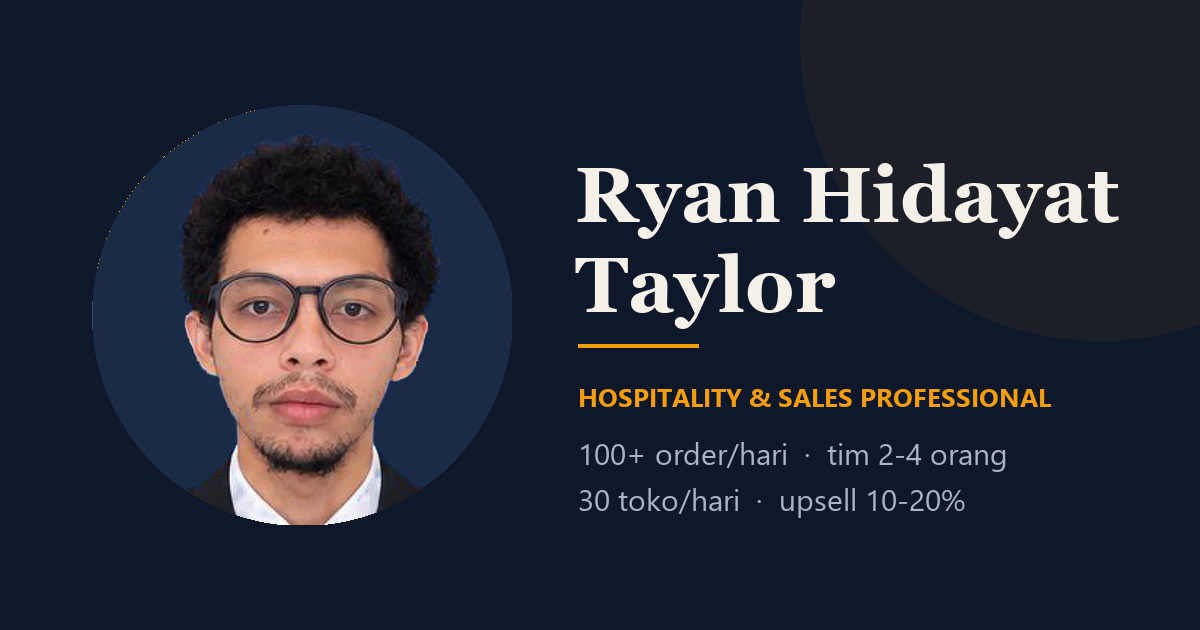
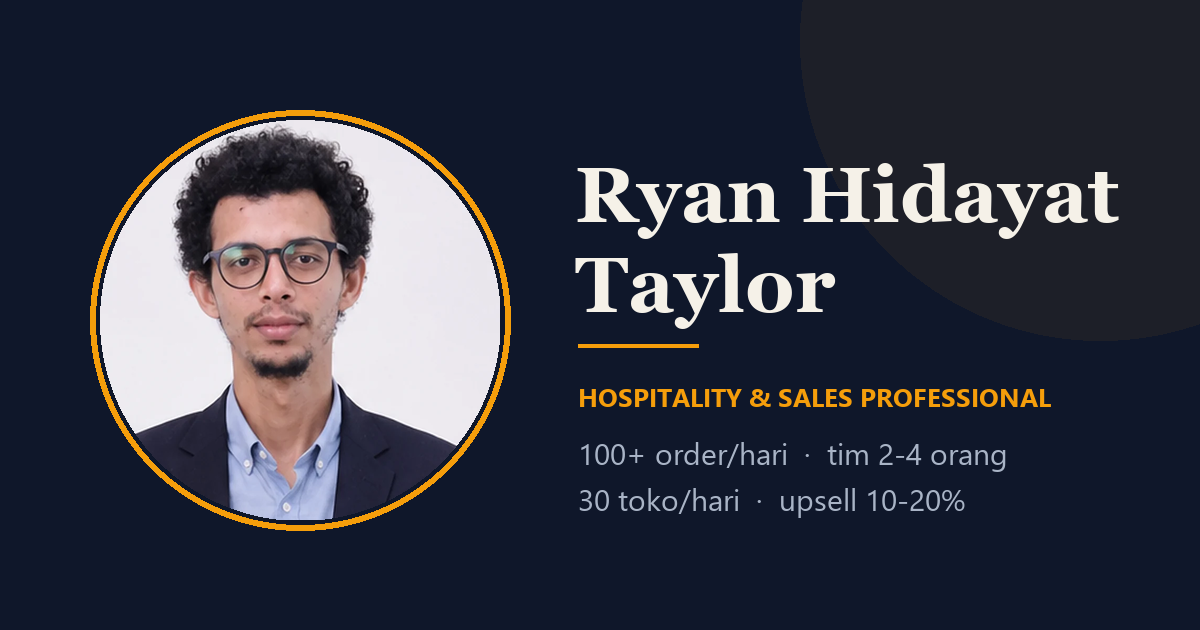
Ganti foto ke portrait studio + animasi mikro
- foto-ray.webp: crop kepala-bahu 760x760 dari foto full-body baru, latar dihangatkan
- hero: foto 208px, cincin amber berputar, pendar berdenyut, gerak mengambang
- hero: lapisan glow amber bergerak lambat di background
- tombol: kilau menyapu saat hover; nav: garis bawah geser
- kartu: bayangan lembut saat hover; dot timeline: pop + ripple
- reveal: stagger 80ms per elemen yang masuk bersamaan
- semua animasi mati saat prefers-reduced-motion
- og-image diperbarui pakai foto baru

Changed region(s): [[0.0617, 0.1508, 0.4317, 0.8444], [0.1233, 0.7238, 0.1542, 0.7841]]

diff --git a/style.css b/style.css
@@ -119,8 +119,23 @@ ul { margin: 0; padding: 0; list-style: none; }
   color: var(--muted);
 }
 
-.nav a { transition: color 0.25s var(--ease); }
+.nav a { position: relative; transition: color 0.25s var(--ease); }
 .nav a:hover { color: var(--cream); }
+
+.nav a:not(.nav__cta)::after {
+  content: "";
+  position: absolute;
+  left: 0;
+  right: 0;
+  bottom: -5px;
+  height: 1px;
+  background: var(--amber);
+  transform: scaleX(0);
+  transform-origin: left center;
+  transition: transform 0.3s var(--ease);
+}
+.nav a:not(.nav__cta):hover::after,
+.nav a:not(.nav__cta):focus-visible::after { transform: scaleX(1); }
 
 .nav__cta {
   color: var(--amber);
@@ -133,35 +148,105 @@ ul { margin: 0; padding: 0; list-style: none; }
 /* ---------------- hero ---------------- */
 
 .hero {
+  position: relative;
+  overflow: hidden;
   padding-block: clamp(2.5rem, 7vw, 5rem) clamp(2rem, 5vw, 3.5rem);
   background:
     radial-gradient(circle at 78% 12%, rgba(245, 158, 11, 0.10), transparent 55%),
     radial-gradient(circle at 8% 88%, rgba(245, 158, 11, 0.06), transparent 50%);
 }
 
+/* cahaya amber yang bergerak lambat di belakang hero */
+.hero::after {
+  content: "";
+  position: absolute;
+  inset: -25%;
+  z-index: 0;
+  pointer-events: none;
+  background: radial-gradient(circle at 66% 34%, rgba(245, 158, 11, 0.13), transparent 52%);
+  animation: heroGlow 16s ease-in-out infinite alternate;
+}
+
+@keyframes heroGlow {
+  from { transform: translate3d(-4%, -2%, 0) scale(1); opacity: 0.75; }
+  to   { transform: translate3d(6%, 4%, 0) scale(1.12); opacity: 1; }
+}
+
 .hero__inner {
+  position: relative;
+  z-index: 1;
   display: grid;
-  grid-template-columns: 180px minmax(0, 1fr);
+  grid-template-columns: 208px minmax(0, 1fr);
   gap: clamp(1.5rem, 4vw, 3rem);
   align-items: center;
 }
 
 .hero__photo {
   position: relative;
-  width: 180px;
+  width: 208px;
   justify-self: start;
+  animation: floaty 7s ease-in-out infinite;
+}
+
+/* cincin amber yang berputar pelan */
+.hero__photo::before {
+  content: "";
+  position: absolute;
+  inset: -8px;
+  border-radius: 50%;
+  background: conic-gradient(from 0deg,
+    rgba(245, 158, 11, 0) 0deg,
+    rgba(245, 158, 11, 0.35) 26deg,
+    rgba(245, 158, 11, 1) 52deg,
+    rgba(245, 158, 11, 0) 96deg,
+    rgba(245, 158, 11, 0) 360deg);
+  -webkit-mask: radial-gradient(farthest-side, transparent calc(100% - 4px), #000 calc(100% - 3px));
+  mask: radial-gradient(farthest-side, transparent calc(100% - 4px), #000 calc(100% - 3px));
+  filter: drop-shadow(0 0 6px rgba(245, 158, 11, 0.55));
+  animation: ringSpin 9s linear infinite;
+}
+
+/* pendar lembut di belakang foto */
+.hero__photo::after {
+  content: "";
+  position: absolute;
+  inset: 6px;
+  border-radius: 50%;
+  z-index: -1;
+  background: radial-gradient(circle, rgba(245, 158, 11, 0.35), transparent 68%);
+  filter: blur(18px);
+  animation: glowPulse 5.5s ease-in-out infinite;
+}
+
+@keyframes ringSpin {
+  to { transform: rotate(360deg); }
+}
+
+@keyframes floaty {
+  0%, 100% { transform: translateY(0); }
+  50% { transform: translateY(-7px); }
+}
+
+@keyframes glowPulse {
+  0%, 100% { opacity: 0.45; transform: scale(0.96); }
+  50% { opacity: 0.9; transform: scale(1.04); }
 }
 
 .hero__photo img {
-  width: 180px;
+  position: relative;
+  z-index: 1;
+  width: 208px;
   aspect-ratio: 1 / 1;
   object-fit: cover;
   border-radius: 50%;
-  border: 2px solid rgba(245, 158, 11, 0.5);
-  box-shadow: 0 0 0 8px rgba(245, 158, 11, 0.07);
-  transition: transform 0.5s var(--ease);
+  border: 2px solid rgba(245, 158, 11, 0.55);
+  box-shadow: 0 0 0 8px rgba(245, 158, 11, 0.07), 0 18px 40px rgba(0, 0, 0, 0.35);
+  transition: transform 0.5s var(--ease), box-shadow 0.5s var(--ease);
 }
-.hero__photo img:hover { transform: scale(1.02); }
+.hero__photo img:hover {
+  transform: scale(1.035);
+  box-shadow: 0 0 0 10px rgba(245, 158, 11, 0.1), 0 22px 46px rgba(0, 0, 0, 0.4);
+}
 
 .eyebrow {
   font-size: 0.78rem;
@@ -199,6 +284,8 @@ ul { margin: 0; padding: 0; list-style: none; }
 /* ---------------- buttons ---------------- */
 
 .btn {
+  position: relative;
+  overflow: hidden;
   display: inline-flex;
   align-items: center;
   justify-content: center;
@@ -212,6 +299,22 @@ ul { margin: 0; padding: 0; list-style: none; }
   transition: transform 0.25s var(--ease), background-color 0.25s var(--ease),
               border-color 0.25s var(--ease), color 0.25s var(--ease);
 }
+
+/* kilau tipis yang menyapu tombol saat di-hover */
+.btn::after {
+  content: "";
+  position: absolute;
+  top: -20%;
+  left: -140%;
+  width: 55%;
+  height: 140%;
+  background: linear-gradient(100deg, transparent, rgba(255, 255, 255, 0.42), transparent);
+  transform: skewX(-18deg);
+  transition: left 0.6s var(--ease);
+  pointer-events: none;
+}
+.btn:hover::after,
+.btn:focus-visible::after { left: 135%; }
 
 .btn--primary {
   background: var(--amber);
@@ -248,9 +351,14 @@ ul { margin: 0; padding: 0; list-style: none; }
   border-radius: var(--radius);
   padding: 1.15rem 1.1rem;
   background: linear-gradient(180deg, rgba(245, 158, 11, 0.04), transparent 70%);
-  transition: transform 0.3s var(--ease), border-color 0.3s var(--ease);
+  transition: transform 0.3s var(--ease), border-color 0.3s var(--ease),
+              box-shadow 0.3s var(--ease);
 }
-.stat:hover { transform: translateY(-4px); border-color: var(--amber); }
+.stat:hover {
+  transform: translateY(-4px);
+  border-color: var(--amber);
+  box-shadow: 0 14px 30px rgba(0, 0, 0, 0.28), 0 0 0 1px rgba(245, 158, 11, 0.12) inset;
+}
 
 .stat__num {
   display: block;
@@ -335,7 +443,16 @@ section[id] { scroll-margin-top: 82px; }
   border: 2px solid var(--line);
   transition: border-color 0.3s var(--ease), background-color 0.3s var(--ease);
 }
-.job.is-in::before { border-color: var(--amber); background: var(--amber); }
+.job.is-in::before {
+  border-color: var(--amber);
+  background: var(--amber);
+  animation: dotIn 0.55s var(--ease) both;
+}
+
+@keyframes dotIn {
+  from { transform: scale(0.35); box-shadow: 0 0 0 0 rgba(245, 158, 11, 0.55); }
+  to   { transform: scale(1); box-shadow: 0 0 0 10px rgba(245, 158, 11, 0); }
+}
 
 .job__when {
   font-size: 0.82rem;
@@ -395,9 +512,14 @@ section[id] { scroll-margin-top: 82px; }
   border-radius: var(--radius);
   padding: 1.4rem 1.35rem;
   background: var(--card);
-  transition: transform 0.3s var(--ease), border-color 0.3s var(--ease);
+  transition: transform 0.3s var(--ease), border-color 0.3s var(--ease),
+              box-shadow 0.3s var(--ease);
 }
-.skill-card:hover { transform: translateY(-4px); border-color: var(--amber); }
+.skill-card:hover {
+  transform: translateY(-4px);
+  border-color: var(--amber);
+  box-shadow: 0 16px 34px rgba(0, 0, 0, 0.3);
+}
 
 .skill-card h3 {
   font-size: 1.1rem;
@@ -454,9 +576,14 @@ section[id] { scroll-margin-top: 82px; }
   border-radius: var(--radius);
   padding: clamp(1.35rem, 3vw, 1.9rem);
   background: var(--card);
-  transition: transform 0.3s var(--ease), border-color 0.3s var(--ease);
+  transition: transform 0.3s var(--ease), border-color 0.3s var(--ease),
+              box-shadow 0.3s var(--ease);
 }
-.help-card:hover { transform: translateY(-4px); border-color: var(--amber); }
+.help-card:hover {
+  transform: translateY(-4px);
+  border-color: var(--amber);
+  box-shadow: 0 16px 34px rgba(0, 0, 0, 0.3);
+}
 
 .help-card__tag {
   font-size: 0.76rem;
@@ -579,7 +706,10 @@ section[id] { scroll-margin-top: 82px; }
 .js .hero__text .anim-hero:nth-child(3) { animation-delay: 0.21s; }
 .js .hero__text .anim-hero:nth-child(4) { animation-delay: 0.29s; }
 .js .hero__text .anim-hero:nth-child(5) { animation-delay: 0.37s; }
-.js .hero__photo.anim-hero { animation-delay: 0s; }
+.js .hero__photo.anim-hero {
+  /* fade-in hero + napas mengambang (transform dipakai animasi kedua) */
+  animation: heroIn 0.6s var(--ease) both, floaty 7s ease-in-out 0.9s infinite;
+}
 
 @keyframes heroIn {
   to { opacity: 1; transform: none; }
@@ -593,7 +723,7 @@ section[id] { scroll-margin-top: 82px; }
     justify-items: start;
   }
   .hero__photo,
-  .hero__photo img { width: 132px; }
+  .hero__photo img { width: 150px; }
   .stats__grid { grid-template-columns: repeat(2, minmax(0, 1fr)); }
   .skills { grid-template-columns: 1fr; }
   .help { grid-template-columns: 1fr; }

diff --git a/script.js b/script.js
@@ -22,10 +22,17 @@
     revealAll();
   } else {
     var io = new IntersectionObserver(function (entries) {
-      entries.forEach(function (entry) {
-        if (!entry.isIntersecting) return;
-        entry.target.classList.add("is-in");
-        io.unobserve(entry.target);
+      var shown = entries.filter(function (e) { return e.isIntersecting; });
+      shown.forEach(function (entry, i) {
+        var el = entry.target;
+        // stagger ringan: elemen yang muncul bersamaan masuk bergiliran
+        var delay = Math.min(i, 3) * 80;
+        if (delay) el.style.transitionDelay = delay + "ms";
+        el.classList.add("is-in");
+        io.unobserve(el);
+        if (delay) {
+          window.setTimeout(function () { el.style.transitionDelay = ""; }, delay + 800);
+        }
       });
     }, { rootMargin: "0px 0px -8% 0px", threshold: 0.12 });
 

diff --git a/README.md b/README.md
@@ -10,7 +10,7 @@ index.html   # semua konten (semantic HTML, meta OG, JSON-LD Person)
 style.css    # tema dark: navy #0F172A, cream #F5F1E8, amber #F59E0B
 script.js    # reveal on scroll, count-up, garis timeline
 assets/
-  foto-ray.webp                # 520×520, dari foto CV (latar dipindah ke navy)
+  foto-ray.webp                # 760×760, crop kepala–bahu dari foto studio terbaru
   Ryan-Hidayat-Taylor-CV.pdf   # file CV untuk tombol unduh
   og-image.png                 # 1200×630 untuk preview share
   favicon.svg
@@ -39,8 +39,9 @@ Build Command: kosong, Output Directory: kosong (root). Deploy.
    Ganti sesuai paket yang benar-benar kamu tawarkan.
 2. **Deskripsi konsultan King Dimsum (2023)** — dua poin di sana ditulis umum;
    kalau ada hasil konkret (mis. kenaikan penjualan), ganti dengan angka.
-3. **Foto** — `assets/foto-ray.webp` diambil dari foto CV. Kalau ada foto
-   profesional yang lebih natural, ganti dengan rasio 1:1, minimal 600×600.
+3. **Foto** — `assets/foto-ray.webp` = crop kepala–bahu (rasio 1:1, 760×760)
+   dari foto studio full-body terbaru. Kalau ada foto close-up yang lebih baik,
+   ganti dengan rasio 1:1 minimal 600×600.
 4. **Domain** — setelah punya domain, tambahkan `canonical`, `og:url`, dan `sitemap.xml`.
    Saat ini sengaja belum dipasang karena domain belum ada.
 5. **itsme-ray.vercel.app** — link portofolio lain di bagian kontak; hapus barisnya
@@ -48,6 +49,8 @@ Build Command: kosong, Output Directory: kosong (root). Deploy.
 
 ## Catatan teknis
 
-- Animasi dimatikan total saat `prefers-reduced-motion: reduce`.
+- Animasi: fade-in hero, cincin amber berputar, foto mengambang, glow bergerak,
+  count-up angka, garis timeline, dot pop, kilau tombol, stagger reveal.
+  Semua dimatikan total saat `prefers-reduced-motion: reduce`.
 - Konten tetap terlihat walau JS gagal (state sembunyi hanya aktif setelah class `.js`).
 - Kontras teks terendah 7.6:1 (target WCAG AA 4.5:1).
